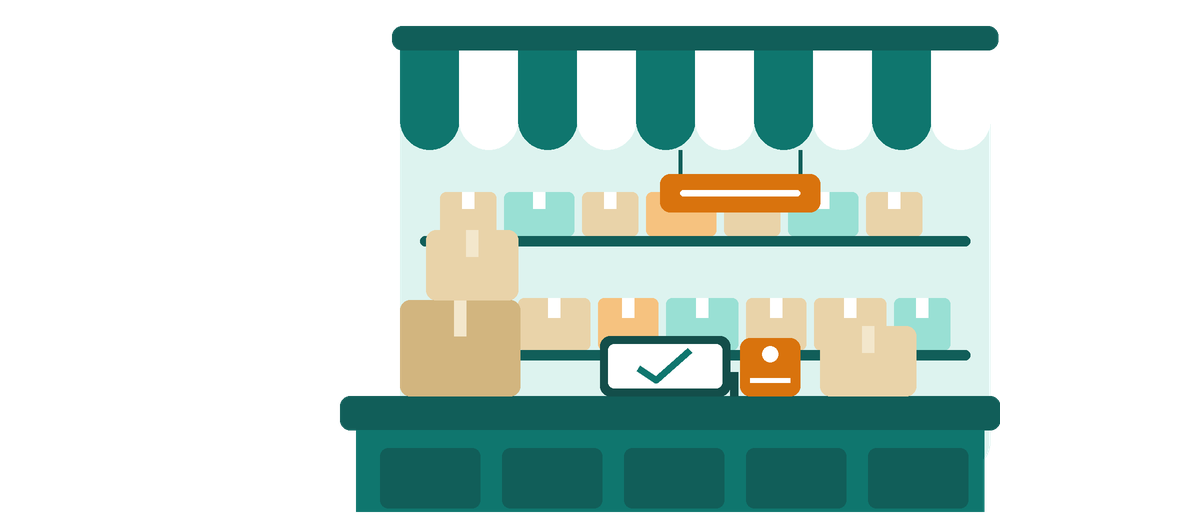
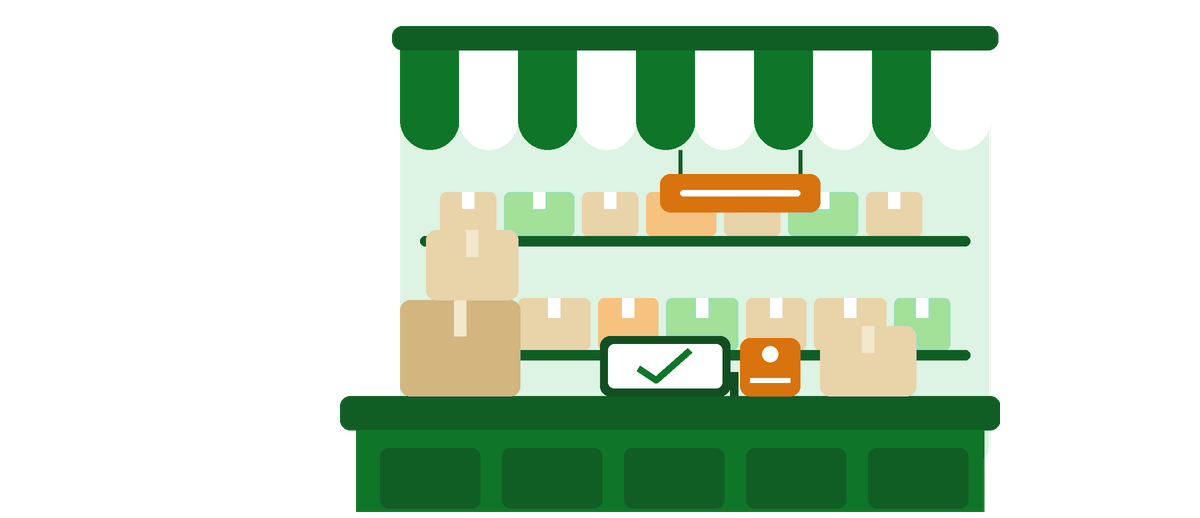
style(app): use the platform's exact leaf-green palette; Coming Soon follows the theme
Restores the original colour tokens and hard-coded colours, and recolours the
generated logo, launcher icons and wholesaler illustration to match.

diff --git a/app/lib/core/theme/app_theme.dart b/app/lib/core/theme/app_theme.dart
@@ -4,36 +4,36 @@ import 'package:flutter/physics.dart' show SpringDescription, SpringSimulation;
 import 'package:google_fonts/google_fonts.dart';
 import 'app_fonts.dart';
 
-/// Brand palette: teal for actions, blue only for information, marigold only
-/// for savings and offers. Neutrals lean slightly teal so white cards sit
-/// calmly on the page ground.
+/// Brand palette: leaf green for actions, water blue
+/// for information, marigold only for savings and offers. Neutrals lean
+/// slightly green so white cards sit calmly on the page ground.
 class AppColors {
   // Brand
-  static const Color primary = Color(0xFF0F766E); // teal
-  static const Color primaryDark = Color(0xFF115E59); // pressed / emphasis
-  static const Color primaryDeep = Color(0xFF134E4A); // text on soft teal
-  static const Color primarySoft = Color(0xFFDDF3EF); // tinted fills
-  static const Color primaryTint = Color(0xFFF0FAF8); // faint washes
-  static const Color primaryGlow = Color(0xFF5EEAD4); // light teal on dark teal
+  static const Color primary = Color(0xFF1F8A3B); // leaf
+  static const Color primaryDark = Color(0xFF16702F); // pressed / emphasis
+  static const Color primaryDeep = Color(0xFF0E4A1F); // text on soft green
+  static const Color primarySoft = Color(0xFFE5F2E7); // tinted fills
+  static const Color primaryTint = Color(0xFFF2F8F3); // faint washes
+  static const Color primaryGlow = Color(0xFF9EE3B0); // light green on dark green
   static const Color secondary = Color(0xFF1560A8); // water: links, info
   static const Color secondarySoft = Color(0xFFE6EEF8);
   static const Color accent = Color(0xFFD9730D); // marigold: savings, offers
   static const Color accentSoft = Color(0xFFFCEFDF);
 
   // Backgrounds
-  static const Color backgroundLight = Color(0xFFF3F8F7); // page ground
-  static const Color backgroundDark = Color(0xFF0B1514);
-  static const Color surfaceMuted = Color(0xFFEBF3F1); // inset panels
+  static const Color backgroundLight = Color(0xFFF5F7F2); // page ground
+  static const Color backgroundDark = Color(0xFF0F1712);
+  static const Color surfaceMuted = Color(0xFFEFF3EB); // inset panels
 
   // Surface colors
   static const Color surfaceLight = Color(0xFFFFFFFF);
-  static const Color surfaceDark = Color(0xFF12211F);
+  static const Color surfaceDark = Color(0xFF16211A);
 
   // Text colors
-  static const Color textPrimary = Color(0xFF0F2422);
-  static const Color textSecondary = Color(0xFF44595A);
-  static const Color textTertiary = Color(0xFF68797A);
-  static const Color textDisabled = Color(0xFFA0B0AF);
+  static const Color textPrimary = Color(0xFF14261A);
+  static const Color textSecondary = Color(0xFF4B5D50);
+  static const Color textTertiary = Color(0xFF6F7F73);
+  static const Color textDisabled = Color(0xFFA3AFA6);
 
   // Status colors (separate from the brand accent)
   static const Color success = Color(0xFF1F8A3B);
@@ -46,21 +46,21 @@ class AppColors {
   static const Color infoSoft = Color(0xFFE6EEF8);
 
   // Border colors
-  static const Color border = Color(0xFFDAE6E3);
-  static const Color borderStrong = Color(0xFFC0D1CD);
-  static const Color borderDark = Color(0xFF24393A);
+  static const Color border = Color(0xFFDFE6DA);
+  static const Color borderStrong = Color(0xFFC6D1C0);
+  static const Color borderDark = Color(0xFF27362C);
 
-  // Gray scale (teal-biased)
-  static const Color gray50 = Color(0xFFF6FAF9);
-  static const Color gray100 = Color(0xFFEBF3F1);
-  static const Color gray200 = Color(0xFFDAE6E3);
-  static const Color gray300 = Color(0xFFC0D1CD);
-  static const Color gray400 = Color(0xFF97ABAA);
-  static const Color gray500 = Color(0xFF68797A);
-  static const Color gray600 = Color(0xFF44595A);
-  static const Color gray700 = Color(0xFF304445);
-  static const Color gray800 = Color(0xFF1F3132);
-  static const Color gray900 = Color(0xFF0F2422);
+  // Gray scale (green-biased)
+  static const Color gray50 = Color(0xFFF7F9F5);
+  static const Color gray100 = Color(0xFFEFF3EB);
+  static const Color gray200 = Color(0xFFDFE6DA);
+  static const Color gray300 = Color(0xFFC6D1C0);
+  static const Color gray400 = Color(0xFF9DAA9F);
+  static const Color gray500 = Color(0xFF6F7F73);
+  static const Color gray600 = Color(0xFF4B5D50);
+  static const Color gray700 = Color(0xFF34453A);
+  static const Color gray800 = Color(0xFF22322A);
+  static const Color gray900 = Color(0xFF14261A);
 
   // Rating stars.
   static const Color star = Color(0xFFE8A317);
@@ -111,7 +111,7 @@ class AppShapes {
 class AppShadows {
   static List<BoxShadow> get card => [
     BoxShadow(
-      color: const Color(0xFF0F2422).withValues(alpha: 0.05),
+      color: const Color(0xFF14261A).withValues(alpha: 0.05),
       blurRadius: 12,
       offset: const Offset(0, 4),
     ),
@@ -119,7 +119,7 @@ class AppShadows {
 
   static List<BoxShadow> get raised => [
     BoxShadow(
-      color: const Color(0xFF0F2422).withValues(alpha: 0.10),
+      color: const Color(0xFF14261A).withValues(alpha: 0.10),
       blurRadius: 24,
       offset: const Offset(0, 8),
     ),
@@ -128,7 +128,7 @@ class AppShadows {
   /// Shadow for bars that float above content (bottom nav, cart bar).
   static List<BoxShadow> get bar => [
     BoxShadow(
-      color: const Color(0xFF0F2422).withValues(alpha: 0.08),
+      color: const Color(0xFF14261A).withValues(alpha: 0.08),
       blurRadius: 20,
       offset: const Offset(0, -4),
     ),
@@ -282,10 +282,10 @@ class AppTheme {
       surfaceContainerHighest: AppColors.gray200,
       outline: AppColors.borderStrong,
       outlineVariant: AppColors.border,
-      shadow: Color(0xFF0F2422),
+      shadow: Color(0xFF14261A),
       inverseSurface: AppColors.textPrimary,
       onInverseSurface: Colors.white,
-      inversePrimary: Color(0xFF5EEAD4),
+      inversePrimary: Color(0xFF8FD3A0),
       surfaceTint: Colors.transparent,
     );
 
@@ -580,7 +580,7 @@ class AppTheme {
           fontWeight: FontWeight.w600,
           color: Colors.white,
         ),
-        actionTextColor: AppColors.primaryGlow,
+        actionTextColor: const Color(0xFF9EE3B0),
       ),
       progressIndicatorTheme: const ProgressIndicatorThemeData(
         color: AppColors.primary,

diff --git a/app/lib/screens/landing/app_landing_screen.dart b/app/lib/screens/landing/app_landing_screen.dart
@@ -18,8 +18,8 @@ class AppLandingScreen extends ConsumerStatefulWidget {
 
 class _AppLandingScreenState extends ConsumerState<AppLandingScreen> {
   // Theme Colors based on the shared image
-  static const Color primary = Color(0xFF0F766E); // Vibrant Blue
-  // static const Color primaryDark = Color(0xFF115E59); // Removed unused field to fix lint
+  static const Color primary = Color(0xFF2563EB); // Vibrant Blue
+  // static const Color primaryDark = Color(0xFF1D4ED8); // Removed unused field to fix lint
   static const Color background = Color(0xFFF8FAFC);
   static const Color textDark = Color(0xFF0F172A);
   static const Color textMuted = Color(0xFF64748B);
@@ -401,7 +401,7 @@ class _AppLandingScreenState extends ConsumerState<AppLandingScreen> {
                 gradient: LinearGradient(
                   begin: Alignment.topLeft,
                   end: Alignment.bottomRight,
-                  colors: [Color(0xFF115E59), Color(0xFF0F766E)],
+                  colors: [Color(0xFF1D4ED8), Color(0xFF2563EB)],
                 ),
               ),
             ),
@@ -412,7 +412,7 @@ class _AppLandingScreenState extends ConsumerState<AppLandingScreen> {
               errorWidget: (_, __, ___) => Container(
                 decoration: const BoxDecoration(
                   gradient: LinearGradient(
-                    colors: [Color(0xFF115E59), Color(0xFF0F766E)],
+                    colors: [Color(0xFF1D4ED8), Color(0xFF2563EB)],
                   ),
                 ),
               ),
@@ -533,7 +533,7 @@ class _AppLandingScreenState extends ConsumerState<AppLandingScreen> {
         child: Row(
           children: [
             _buildVoucherCard('Power Tools', '20%', [
-              const Color(0xFF134E4A),
+              const Color(0xFF1E40AF),
               const Color(0xFF3B82F6),
             ], HugeIcons.strokeRoundedDroplet),
             _buildVoucherCard('Safety Gear', '15%', [
@@ -541,8 +541,8 @@ class _AppLandingScreenState extends ConsumerState<AppLandingScreen> {
               const Color(0xFF10B981),
             ], HugeIcons.strokeRoundedLeaf01),
             _buildVoucherCard('Fasteners', '10%', [
-              const Color(0xFF115E59),
-              const Color(0xFF14B8A6),
+              const Color(0xFF5B21B6),
+              const Color(0xFF8B5CF6),
             ], HugeIcons.strokeRoundedSettings01),
           ],
         ),
@@ -560,9 +560,9 @@ class _AppLandingScreenState extends ConsumerState<AppLandingScreen> {
 
           // Cycle through colors based on index
           final List<List<Color>> colorSets = [
-            [const Color(0xFF134E4A), const Color(0xFF3B82F6)],
+            [const Color(0xFF1E40AF), const Color(0xFF3B82F6)],
             [const Color(0xFF065F46), const Color(0xFF10B981)],
-            [const Color(0xFF115E59), const Color(0xFF14B8A6)],
+            [const Color(0xFF5B21B6), const Color(0xFF8B5CF6)],
             [const Color(0xFFB91C1C), const Color(0xFFEF4444)],
           ];
           final colors = colorSets[index % colorSets.length];
@@ -1433,7 +1433,7 @@ class DashedLinePainter extends CustomPainter {
   @override
   void paint(Canvas canvas, Size size) {
     final paint = Paint()
-      ..color = const Color(0xFF0F766E).withOpacity(0.35)
+      ..color = const Color(0xFF2563EB).withOpacity(0.35)
       ..style = PaintingStyle.fill;
 
     const double dashWidth = 9.0;

diff --git a/app/lib/screens/product/add_new_product_screen.dart b/app/lib/screens/product/add_new_product_screen.dart
@@ -13,12 +13,12 @@ class _AddNewProductScreenState extends State<AddNewProductScreen> {
   String? _selectedCategory;
 
   // Colors from design
-  static const Color primary = Color(0xFF2DD4BF);
-  static const Color backgroundLight = Color(0xFFF3F8F7);
-  static const Color backgroundDark = Color(0xFF0B1514);
-  static const Color textDark = Color(0xFF0F2422);
-  static const Color borderColor = Color(0xFFDAE6E3);
-  static const Color placeholderColor = Color(0xFF68797A);
+  static const Color primary = Color(0xFF46ec13);
+  static const Color backgroundLight = Color(0xFFf6f8f6);
+  static const Color backgroundDark = Color(0xFF142210);
+  static const Color textDark = Color(0xFF111b0d);
+  static const Color borderColor = Color(0xFFd5e7cf);
+  static const Color placeholderColor = Color(0xFF5e9a4c);
   static const Color gray200 = Color(0xFFe5e7eb);
 
   @override

diff --git a/app/lib/core/services/local_notification_service.dart b/app/lib/core/services/local_notification_service.dart
@@ -239,7 +239,7 @@ class LocalNotificationService {
             chronometerCountDown: true,
             timeoutAfter: remaining.inMilliseconds,
             largeIcon: const DrawableResourceAndroidBitmap('ic_launcher'),
-            color: const Color(0xFF0F766E),
+            color: const Color(0xFF1B8E3E),
             category: AndroidNotificationCategory.promo,
             subText: title,
             styleInformation: BigTextStyleInformation(
@@ -293,7 +293,7 @@ class LocalNotificationService {
           importance: Importance.high,
           priority: Priority.high,
           largeIcon: const DrawableResourceAndroidBitmap('ic_launcher'),
-          color: const Color(0xFF0F766E),
+          color: const Color(0xFF1B8E3E),
           styleInformation: BigTextStyleInformation(
             body,
             contentTitle: title,

diff --git a/app/lib/screens/product/wholesale_product_detail_screen.dart b/app/lib/screens/product/wholesale_product_detail_screen.dart
@@ -16,7 +16,7 @@ class _WholesaleProductDetailScreenState
   bool _descriptionExpanded = true;
 
   // Colors from design
-  static const Color primary = Color(0xFF115E59);
+  static const Color primary = Color(0xFF1d4ed8);
   static const Color secondary = Color(0xFF3b82f6);
   static const Color backgroundLight = Color(0xFFf8fafc);
   static const Color textDark = Color(0xFF1e293b);
@@ -31,7 +31,7 @@ class _WholesaleProductDetailScreenState
   static const Color slate50 = Color(0xFFf8fafc);
   static const Color slate100 = Color(0xFFf1f5f9);
   static const Color blue100 = Color(0xFFdbeafe);
-  static const Color blue700 = Color(0xFF115E59);
+  static const Color blue700 = Color(0xFF1d4ed8);
 
   @override
   Widget build(BuildContext context) {

diff --git a/app/lib/screens/negotiations/negotiation_celebration_screen.dart b/app/lib/screens/negotiations/negotiation_celebration_screen.dart
@@ -5,10 +5,10 @@ class NegotiationCelebrationScreen extends StatelessWidget {
   const NegotiationCelebrationScreen({super.key});
 
   // Colors from design
-  static const Color primary = Color(0xFF2DD4BF);
-  static const Color backgroundLight = Color(0xFFF3F8F7);
-  static const Color textDark = Color(0xFF0F2422);
-  static const Color backgroundDark = Color(0xFF0B1514);
+  static const Color primary = Color(0xFF46ec13);
+  static const Color backgroundLight = Color(0xFFf6f8f6);
+  static const Color textDark = Color(0xFF111b0d);
+  static const Color backgroundDark = Color(0xFF142210);
 
   @override
   Widget build(BuildContext context) {

diff --git a/app/lib/screens/admin/alerts_hub_screen.dart b/app/lib/screens/admin/alerts_hub_screen.dart
@@ -13,9 +13,9 @@ class _AlertsHubScreenState extends State<AlertsHubScreen> {
   int _selectedNavIndex = 1;
 
   // Colors from design
-  static const Color primary = Color(0xFF2DD4BF);
-  static const Color backgroundLight = Color(0xFFF3F8F7);
-  static const Color textDark = Color(0xFF0F2422);
+  static const Color primary = Color(0xFF46ec13);
+  static const Color backgroundLight = Color(0xFFf6f8f6);
+  static const Color textDark = Color(0xFF111b0d);
   static const Color urgent = Color(0xFFff3b30);
   static const Color warning = Color(0xFFffcc00);
   static const Color info = Color(0xFF007aff);

diff --git a/app/lib/screens/help/help_center_screen.dart b/app/lib/screens/help/help_center_screen.dart
@@ -6,8 +6,8 @@ class HelpCenterScreen extends StatelessWidget {
   const HelpCenterScreen({super.key});
 
   // Colors from design
-  static const Color primary = Color(0xFF2DD4BF);
-  static const Color backgroundLight = Color(0xFFF3F8F7);
+  static const Color primary = Color(0xFF46EC13);
+  static const Color backgroundLight = Color(0xFFF6F8F6);
   static const Color slate900 = Color(0xFF0f172a);
   static const Color slate400 = Color(0xFF94a3b8);
   static const Color slate200 = Color(0xFFe2e8f0);

diff --git a/app/lib/screens/orders/order_confirmation_screen.dart b/app/lib/screens/orders/order_confirmation_screen.dart
@@ -6,7 +6,7 @@ class OrderConfirmationScreen extends StatelessWidget {
   const OrderConfirmationScreen({super.key});
 
   // Colors from design
-  static const Color primary = Color(0xFF0F766E);
+  static const Color primary = Color(0xFF135bec);
   static const Color backgroundLight = Color(0xFFf6f6f8);
   static const Color textDark = Color(0xFF0d121b);
   static const Color textSecondary = Color(0xFF4c669a);

diff --git a/app/lib/screens/orders/shipment_detail_screen.dart b/app/lib/screens/orders/shipment_detail_screen.dart
@@ -6,7 +6,7 @@ class ShipmentDetailScreen extends StatelessWidget {
   const ShipmentDetailScreen({super.key});
 
   // Colors from design
-  static const Color primary = Color(0xFF0F766E);
+  static const Color primary = Color(0xFF135bec);
   static const Color backgroundLight = Color(0xFFf6f6f8);
   static const Color textDark = Color(0xFF0d121b);
   static const Color textSecondary = Color(0xFF4c669a);

diff --git a/app/lib/widgets/deal_desk_groups.dart b/app/lib/widgets/deal_desk_groups.dart
@@ -19,7 +19,7 @@ List<Widget> dealDeskEntries(
   BuildContext context,
   List<Map<String, dynamic>> negotiations,
   Widget Function(Map<String, dynamic> negotiation) buildCard, {
-  Color color = const Color(0xFF134E4A),
+  Color color = const Color(0xFF1E40AF),
   double gap = 0,
 }) {
   final groups = <String, List<Map<String, dynamic>>>{};

diff --git a/app/lib/core/utils/customer_order_presentation.dart b/app/lib/core/utils/customer_order_presentation.dart
@@ -60,7 +60,7 @@ class CustomerOrderPresentation {
       case 'payment_uploaded':
         return const Color(0xFF6366F1);
       case 'payment_verified':
-        return const Color(0xFF0F766E);
+        return const Color(0xFF2563EB);
       case 'processing':
         return const Color(0xFF7C3AED);
       case 'shipped':
